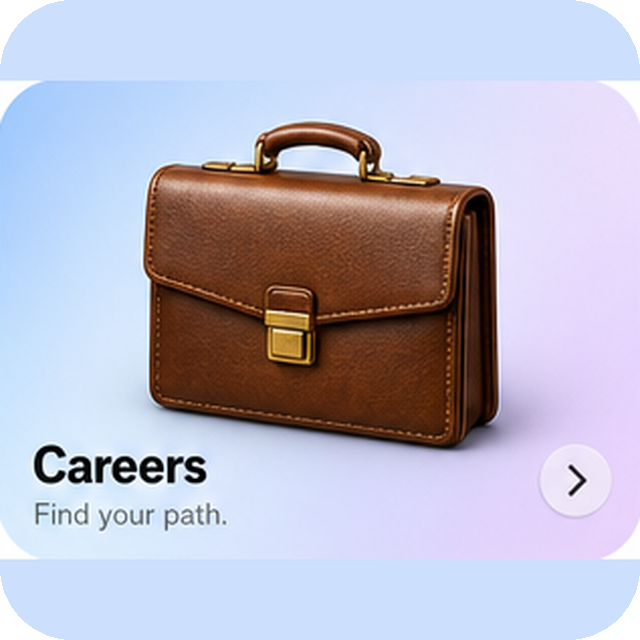
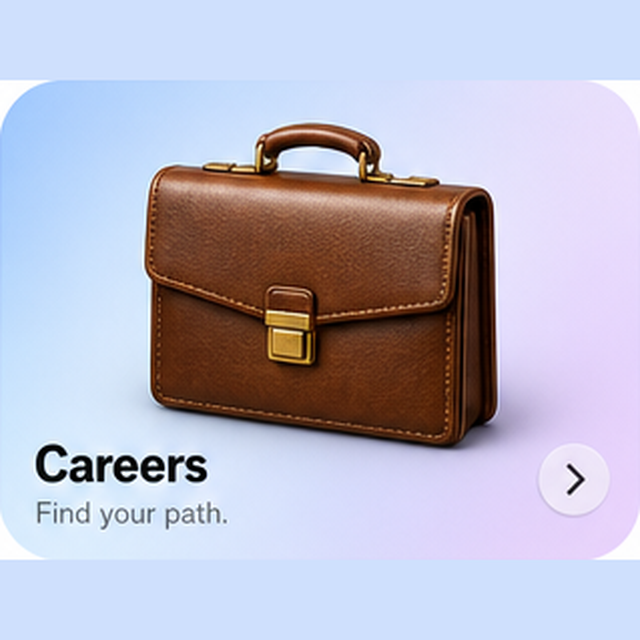
Fix Explore cards showing old backgrounds under images
Flatten card PNGs to opaque squares and render only the image tile
(no transparent corners or leftover button chrome underneath).

diff --git a/src/pages/ExplorePage.tsx b/src/pages/ExplorePage.tsx
@@ -46,13 +46,14 @@ function ExploreCard({ item }: { item: ExploreItem }) {
       type="button"
       onClick={() => navigate(item.route)}
       aria-label={`${item.label}. ${item.subtitle}`}
-      className="overflow-hidden rounded-[1.15rem] transition-transform active:scale-[0.98] focus-visible:outline-none focus-visible:ring-2 focus-visible:ring-primary/40"
+      className="block w-full appearance-none border-0 bg-transparent p-0 transition-transform active:scale-[0.98] focus-visible:outline-none focus-visible:ring-2 focus-visible:ring-primary/40 focus-visible:ring-offset-2"
     >
+      {/* Image IS the card — no gradient/emoji layer underneath */}
       <img
         src={item.image}
         alt=""
         draggable={false}
-        className="aspect-square w-full object-cover"
+        className="aspect-square w-full rounded-2xl object-cover shadow-sm"
       />
     </button>
   );
